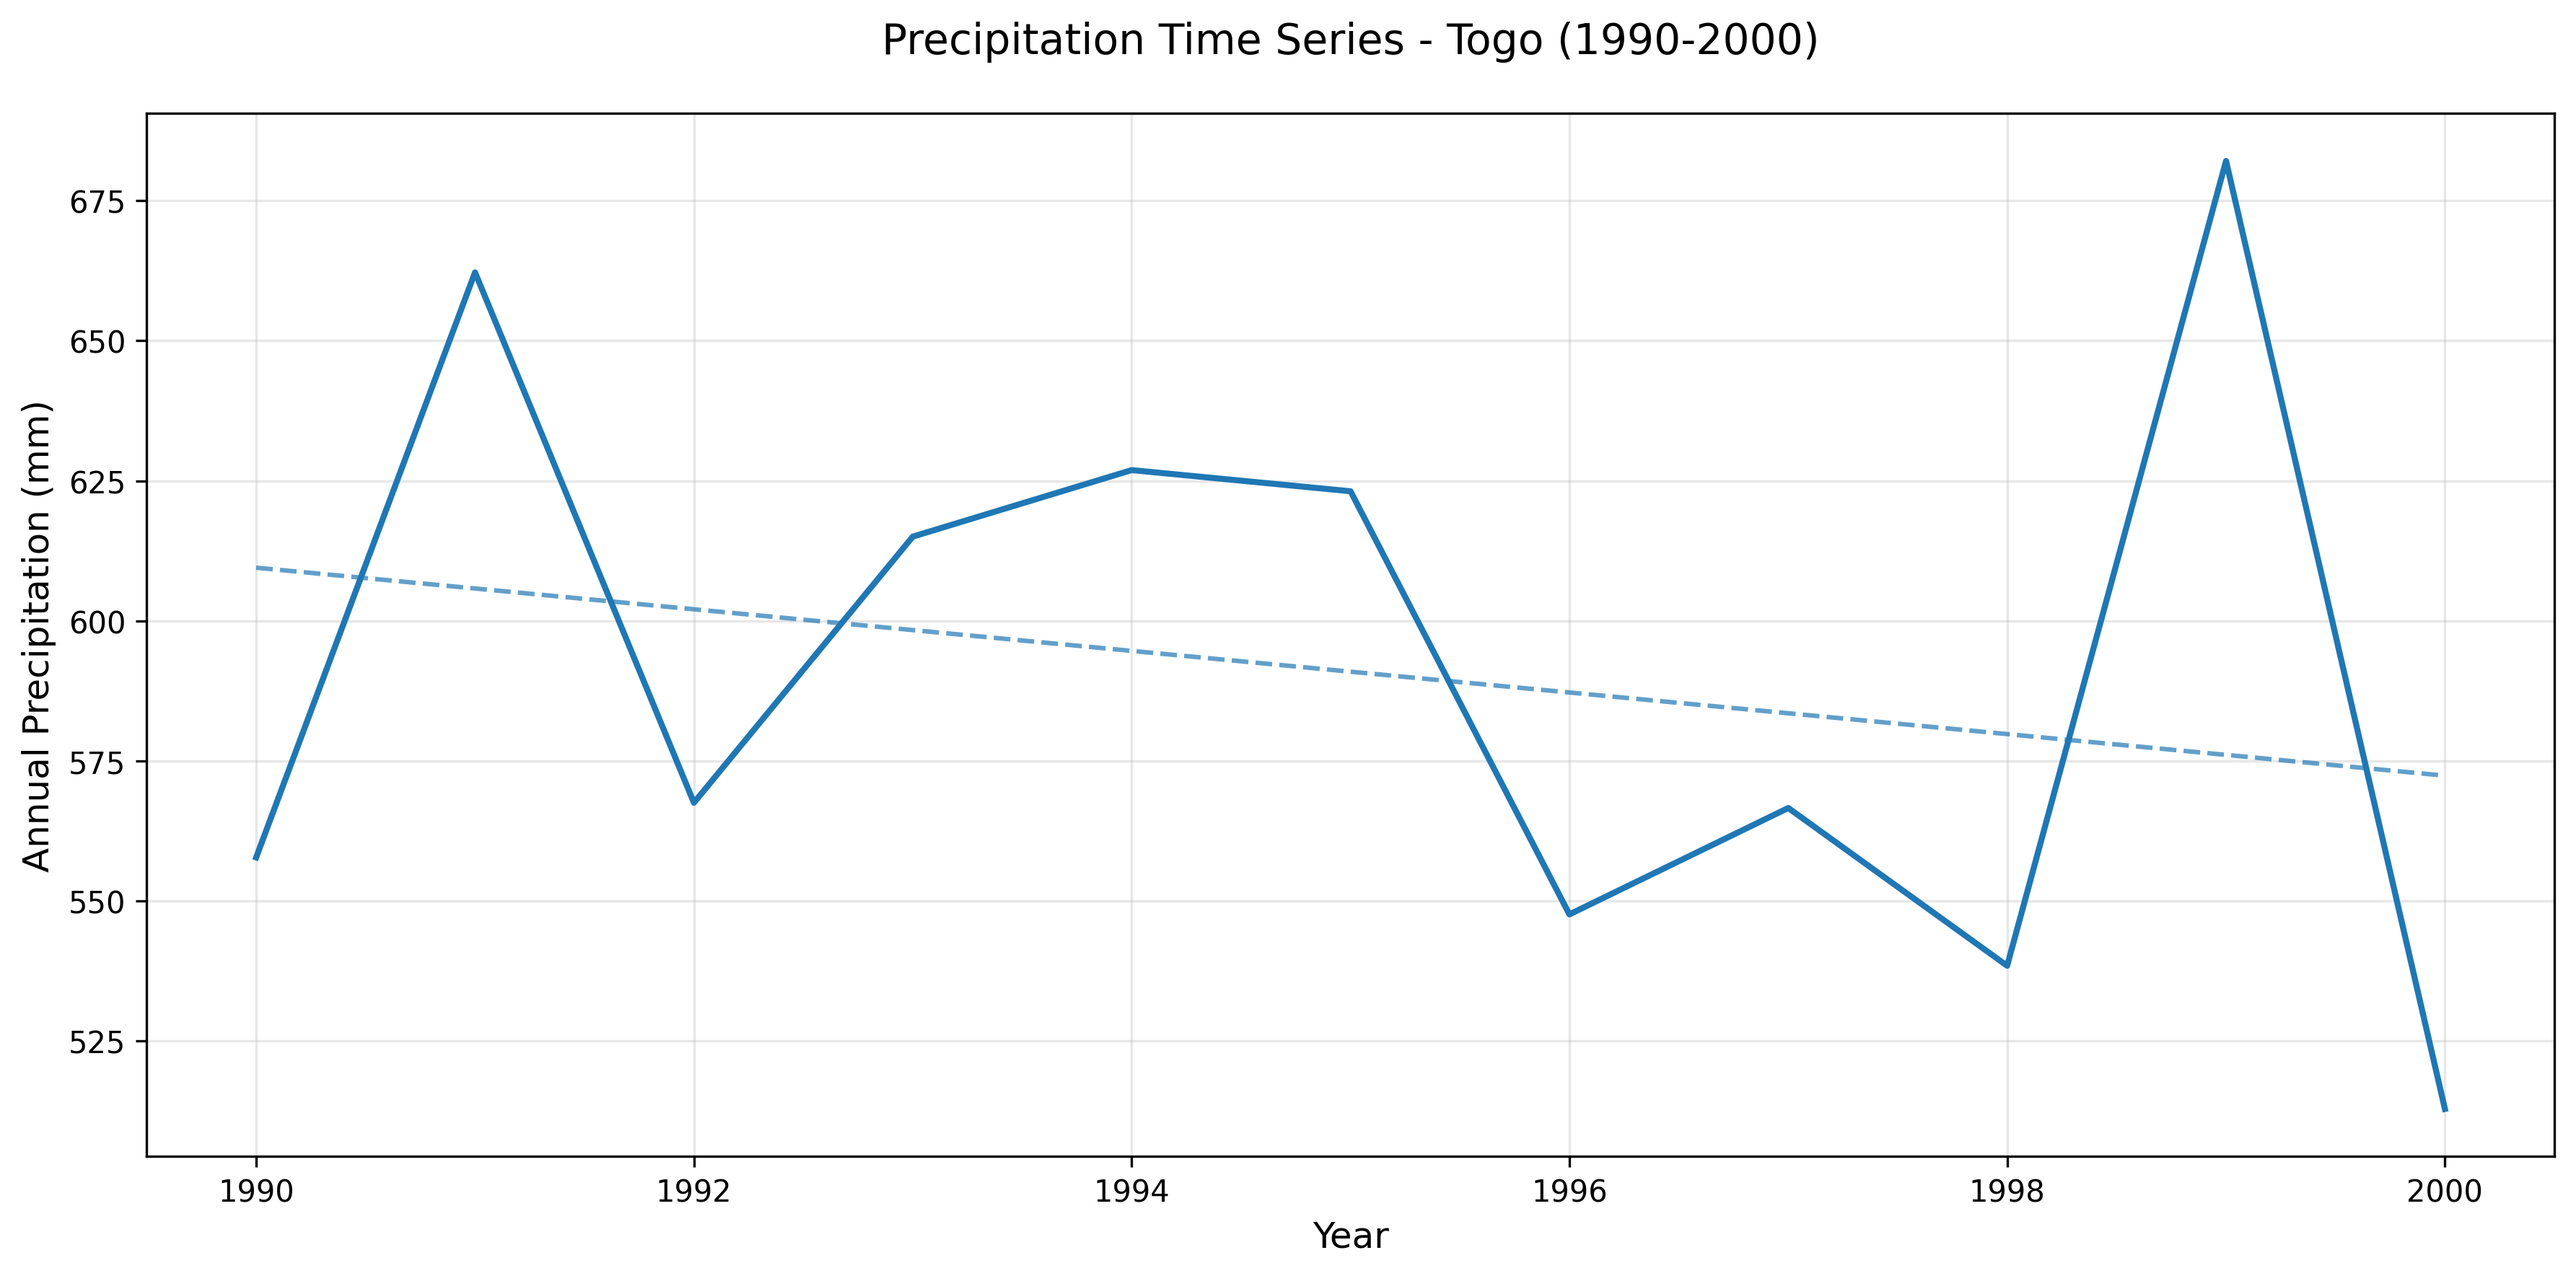
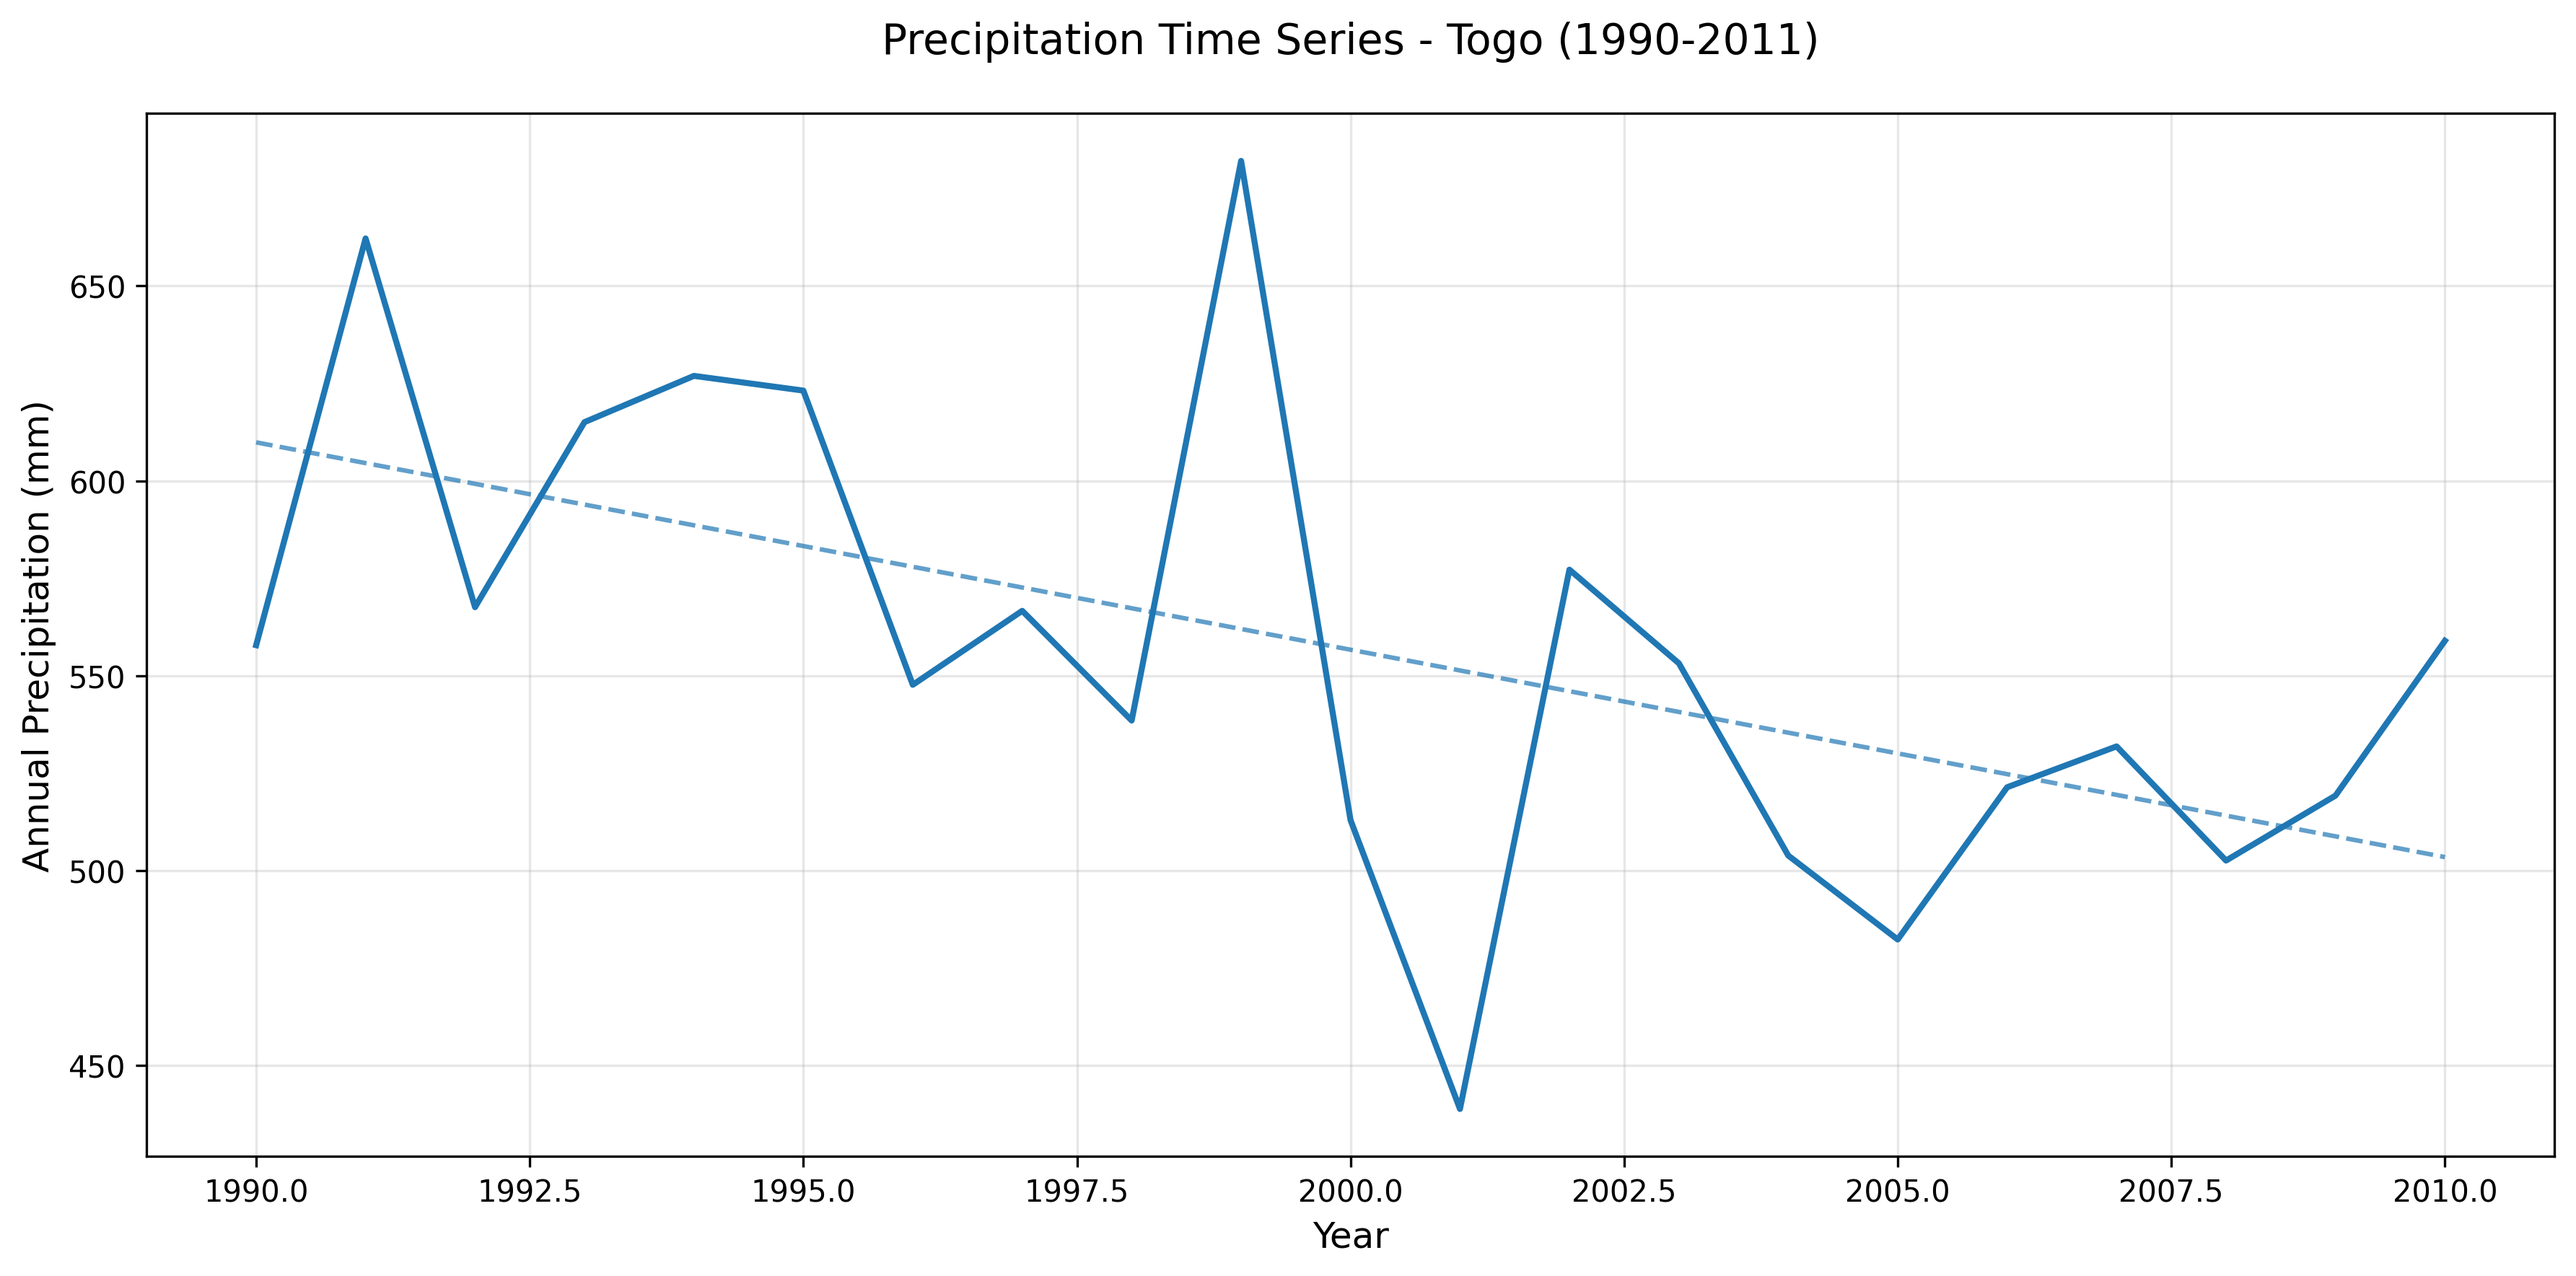
v0.4.0
- Added plotting functionality
- Removed Geopandas for country borders
- Updated dependencies

diff --git a/README.md b/README.md
@@ -152,15 +152,7 @@ fig_precip = cavapy.plot_time_series(
 
 <div align="center">
   <img src="figures/time_series_precipitation.png" alt="Precipitation Trends" width="600">
-  <br><em>Example time series plot showing precipitation trends in Togo (1990-2000) with trend line</em>
+  <br><em>Example time series plot showing precipitation trends in Togo (1990-2011) with trend line</em>
 </div>
 
 
-### Plotting Features
-
-- **Automatic units and labels**: Plots automatically use proper units and variable names
-- **Cartopy integration**: High-quality maps with coastlines and country borders (requires cartopy)
-- **Flexible time periods**: Subset data to specific years for analysis
-- **Multiple aggregation methods**: mean, sum, min, max, std
-- **Customizable styling**: Control colors, figure size, and save options
-- **Trend analysis**: Add trend lines to time series plots
